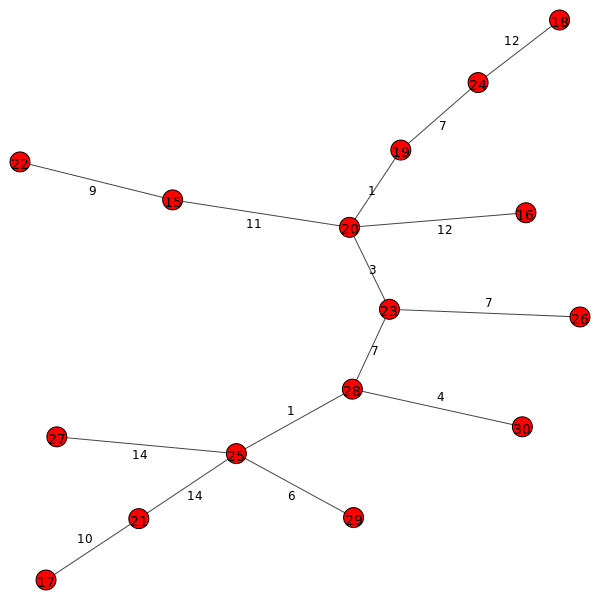
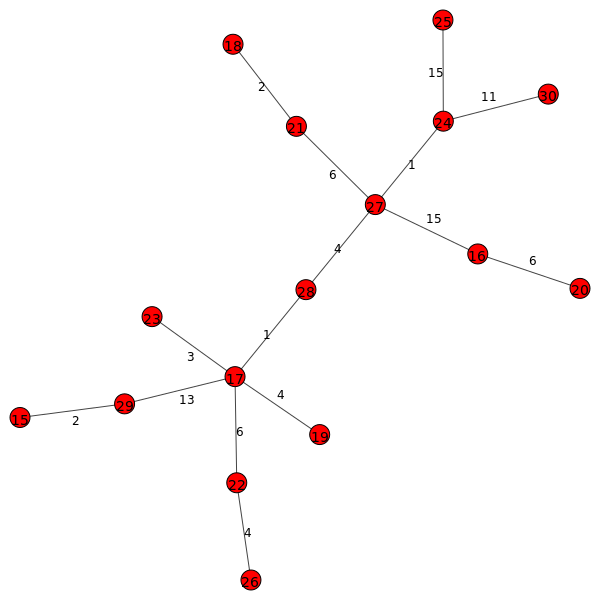
cosa

diff --git a/Parte2-Paper/Scripts/main.py b/Parte2-Paper/Scripts/main.py
@@ -1,3 +1,4 @@
+from tokenize import Double
 from matplotlib.pyplot import plot
 from igraph import *
 from functools import cache
@@ -25,24 +26,25 @@ def update_graph(G):
     new_graph_weights = G.es['weight'] #Saves the new weights of the graph
     return G, old_graph_weights, new_graph_weights
 
-#Input: G graph from igraph, n number of nodes
-#Output: None in python, 
-def loop_update(G, n):#Falta criterio de parada
+#Input: G graph from igraph, n time sleep till the next change, changes int number of random updates in the graph
+#Output: None in python. 
+def loop_update(G:Graph, n:Double, changes:int)->None:
     global iteraciones
     iteraciones +=1
-    a = random.sample(G.vs['name'], 1)
-    old_L, old_S = Dijkstra(G,a[0]) #Dijkstra inicial
+    a = random.sample(G.vs['name'], 1) #Picks a random node in the graph
+    old_L, old_S = Dijkstra(G,a[0]) #First dijkstra to know the state of the graph
     print_route_tables(G,old_L,a[0])
     count = 0
-    while count<3:
+    while count<changes:#Here the graph is updated and the routing tables are recalculeted
         iteraciones += 1
-        G, old, new = update_graph(G) #
-        #comparar
-        indices_diferencias = [i for i in range(len(old)) if old[i]!=new[i]] #Da el indice donde los pesos son diferentes
+        G, old, new = update_graph(G) #Changes the weights on some of the edges of the graph and saves the old and the new weights.
+        #From here we detect the changes on the graph and make the correspondent calculations
+        indices_diferencias = [i for i in range(len(old)) if old[i]!=new[i]] #Compare the old and the new weights to find the indices of the weights that changed and using this, we can find what edges changed
         #edges = [G.es[i] for i in indices_diferencias] #Para tener las aristas que se cambiaron
         #print(edges) #Esto debe imprimir objetos de igraph
+        #Now we use the indices to find the correspondent edges and with them we save both of the nodes connected to that edge to the a set to know whitch vertices route should be recalculated
         vertices_afectados = set({})
-        for i in indices_diferencias:#Para tener los vertices que se cambiaron
+        for i in indices_diferencias:#Finding the vertices that where affected
             iteraciones += 1
             vertices_afectados.add(G.es[i].source)
             vertices_afectados.add(G.es[i].target)
@@ -52,77 +54,50 @@ def loop_update(G, n):#Falta criterio de parada
         #u = input('Nombre del nodo 1: ')
         #v = input('Nombre del nodo 2: ')
         # a = [u, v]
-        old_L, old_S = Dijkstra(G, a[0],vertices_afectados,old_L,old_S) #Este terecer input da los vertices afectados
-        count +=1
+        old_L, old_S = Dijkstra(G, a[0],vertices_afectados,old_L,old_S) #Uses DIjkstra but keeping the past calculations that where not affected by the update. Only recalculating on the affected vertices.
+        count +=1 #Another recalculation was made
         print_route_tables(G,old_L,a[0],count)
-        time.sleep(n)
+        time.sleep(n)#Sleep time till next update/change in the graph
 
-#Input:
-#Output:
+#Input: g graph in igraph format, L a list of lists that represent the graph using the sparse matrix nodeA||nodeB||weight where A and B are adjacent nodes, u name of a node of the graph
+#and count a str to know in which table the data goes? check
+#Output: None in python, but it shows the routing tables in the console.
+
 def print_route_tables(g,L,u,count='inicial'): 
     global iteraciones
     grafo = g
     print(f"--- Tabla de enrutamiento {count}-----")
     print("|Origen| Destino | Remitir paquete a | Peso| ")
-    all_paths = list_graph_path(grafo,u,L)
-    for path in all_paths:
+    all_paths = list_graph_path(grafo,u,L) #paths from u to all nodes in a dictionary.
+    for path in all_paths: #For each node in the graph different from u.
         iteraciones += 1
-        print(f"|{u}    |{path}       |         {all_paths[path][0][1]}        |  {all_paths[path][1]} |")
-    al = list(all_paths.values())
-    paths = [i[0] for i in al]
+        print(f"|{u}    |{path}       |         {all_paths[path][0][1]}        |  {all_paths[path][1]} |") #The last two elements of this print are: the first node in the path from  u to z and second is the total weight of that path.
+    al = list(all_paths.values()) #Lists of lists with each list containing the path from u to z in a list and the total weight of the path.
+    paths = [i[0] for i in al] #A list of lists with each list having a path from u to any node in the graph
+    ##Creates png of the route in a reduced graph
     AU = []
     for i in paths:
-        for j in range(len(i)-1):
+        for j in range(len(i)-1): #Taking the nodes of each route
             iteraciones += 1
-            AU.append(grafo.get_eid(str(i[j]), str(i[j+1])))
-    AU = list(set(AU))
-    AU = [grafo.es[i] for i in AU]
+            AU.append(grafo.get_eid(str(i[j]), str(i[j+1]))) #Toma cada ruta y va agregando a AU los ids de las aristas que se usan en cada ruta.
+    AU = list(set(AU)) #Eliminan ids repetidos.
+    AU = [grafo.es[i] for i in AU] #Using the id we get the object edge from igraph
     NU = [i for i in grafo.es if i not in AU]
     grafo.delete_edges(NU)
+    ##Creates png of the route in a reduced graph
     layout = grafo.layout("kk")
     g.vs["label"] = g.vs["name"]
     g.es["label"] = g.es["weight"]
     plot(grafo, layout=layout,target= f"Este es el camino más corto en la actualización {count}.png")
 
-def show_weihtges(G):
-    for i in G.es:
-        source = G.vs(i.source)['name']
-        target = G.vs(i.target)['name']
-        weight = i['weight']
-        print(f'{source} --> {target}: {weight}')
-
-'''
-def full_dijkstra(G, u):
-    l = G.vs['name']
-    l.remove(u)
-    for i in l:
-        Dijkstra(G, u, i)
-'''
 
 def main():
-
-    # t = [('a', 'b', 0), ('a', 'c', 0), ('a', 'd', 0),
-    #     ('b', 'c', 0), ('b', 'd', 0)]
-    #t = [[32, 29, 2], [29, 22, 15], [32, 43, 3], [43, 45, 7], [29, 33, 7], [45, 24, 5], [33, 17, 10], [43, 38, 11], [24, 21, 9], [17, 34, 8], [22, 47, 13], [29, 15, 13], [33, 25, 10], [17, 30, 4], [24, 16, 2], [22, 28, 5], [22, 31, 15], [43, 36, 8], [34, 37, 2], [34, 23, 9], [21, 20, 13], [29, 27, 14], [33, 46, 12], [15, 18, 1], [
-        #29, 35, 3], [25, 19, 9], [43, 44, 1], [47, 42, 1], [25, 41, 14], [20, 40, 15], [38, 26, 9], [46, 39, 8], [45, 18, 5], [16, 18, 1], [40, 45, 8], [41, 24, 15], [27, 46, 2], [27, 25, 7], [21, 26, 9], [40, 26, 8], [19, 46, 13], [21, 42, 3], [35, 44, 1], [30, 15, 8], [29, 34, 8], [23, 18, 15], [37, 33, 8], [31, 28, 2]]
-     #Usa dijkstra y cada cierto tiempo modifica el grafo
-    # gl = threading.Thread(target=loop_update_update, args=(g, 2))
-    # dl = threading.Thread(target=loop_update_Dijkstra, args=(g))
-
-    # gl.start()
-    # dl.start()
-    # show_weihtges(g)
-    # update_graph(g)
-    # print('--------')
-    # show_weihtges(g)
     print("Bienvenido a este algoritmo. A partir de una red y mediante el uso de grafos, se hallarán las tablas de enrutamiento dinámicamente. \n Atención: Se guardarán imágenes de los grafos y caminos calculados en la misma carpeta.")
     if int(input('0 - Cargar Grafo \n1 - Generar Grafo \n Seleccion: ')):
         n = int(input("Por favor ingrese el numero de nodos del grafo de 15 a 50: "))
-        #print(n)
+        changes = int(input("Ingrese el número de cambios a realizar"))#Falta pasarselo al loop_update 
         t  = radngraph.gen_graph(n)
         t2 = [(str(i[0]), str(i[1]), i[2]) for i in t]
-        #t = Conex_graph_generator(n)
-        #print(t)
         radngraph.graph2csv(t)
     else:
         a = input('Por favor ingrese el nombre del archivo de donde se generara el grafo(sin ".csv"): ')

diff --git a/Parte2-Paper/Scripts/DJ.py b/Parte2-Paper/Scripts/DJ.py
@@ -2,8 +2,8 @@ from igraph import *
 
 iteraciones = 0
 
-#This function request an L graph in dictionary format in which the keys are the node name, and the values are a list with the
-#weight and destiny node of the edge. This function finds a path between u and z.
+#Input: Graph L in dictionary format, initial node u, destiny node z.
+#Ouput: r a list of the nodes form the origin to the destiny node.
 
 def get_path(L, u, z, r=[]):
     global iteraciones
@@ -17,8 +17,9 @@ def get_path(L, u, z, r=[]):
 
 
 
-#This function asks for a graph G in iGraph normal format and 2 nodes with and edge between them (adjacent). 
-#This finds the weight of the edge between the nodes.
+
+#Input: Graph G in iGraph format, node x and node v of the graph.
+#Output: The weight of the edge between these nodes.
 
 def w(G, x, v):
     try:
@@ -29,10 +30,11 @@ def w(G, x, v):
 
 
 #Input:G graph from igraph, u a node in L and L is a list of lists each one with the node and its connected edges.
-#Output: Path from U to each node in the graph using the function get_path.
+#Output: Path from U to each node in the graph using the function get_path in a dictionary where keys are the name of the nodes 
+#and the values are a list of 2 elements: 1.List of the path from u to z. 2 .Total weight of going from u to z using the given path.
 
 def list_graph_path(G, u, L):
-    all_paths={}
+    all_paths={} #Dictionary with keys as the name of the node and values the path from u top that node.
     l = list(G.vs['name']) #List in which we have all the nodes of the graph.
     l.remove(str(u)) #Delete the initial node from the nodes to check.
     for i in l:
@@ -41,11 +43,11 @@ def list_graph_path(G, u, L):
         path = get_path(L, str(u), str(i), []) #Find paths from u to all the nodes with get_path.
         path = path[::-1] #It inverse the path, this because geth_path returns the route list backwards.
         path.append(i) #Appends the destiny node to the list because get_path makes the list without him.
-        if L[i][0] == float('inf'):
+        if L[i][0] == 0: #Float(inf). If the weight of the path is 0 is because there isn't any.
             path = []
             
-        all_paths[i] = [path,L[i][0]]
-    return all_paths
+        all_paths[i] = [path,L[i][0]] #Assign a path and a weight to their respective nodes.
+    return all_paths 
 
 #Input: G graph from iGraph, u an origin node and some boolean parameters that idk.
 #Output: l a list of lists that represent the graph using the sparse matrix nodeA||nodeB||weight where A and B are adjacent nodes.
@@ -57,10 +59,11 @@ def Dijkstra(G, u, affected_nodes = True, old_S = True, old_L = True):
         L[str(u)] = [0, []] #Changes value of distance from u to u to 0.
         S = [str(u)] #Now we append u to the list of checked nodes.
     else:
-        for node in old_S:
-            if node in affected_nodes:
-                    S = old_S[0:int(old_S.index(node)+1)]  #IDFK No fucking idea whats happening here but this is for the dynamic case.
-                    L = {i: L[i] for i in S}
+        #When we have to recalculate due to changes we use this case in which affected nodes is a set({}) of the affected nodes
+        for node in old_S: #For each node in the past revision in the past dijkstra
+            if node in affected_nodes:#for each affected node we make the recalculation
+                    S = old_S[0:int(old_S.index(node)+1)]  #Creates the S list of checked nodes, usign slices and "cutting off" the affected nodes to be checked again
+                    L = {i: old_L[i] for i in S} #Saves the past weights that where not affected by the update in the graph, reducing calculations
     start = 1
     while 1:
         L_S = {i: L[i][0] for i in L if i not in S} #Append to L_S all the nodes in L that have not been checked.
@@ -70,20 +73,13 @@ def Dijkstra(G, u, affected_nodes = True, old_S = True, old_L = True):
             x = u #x will be the node whose edges will be checked.
             start = 0 #Changing start to 0 because we will no longer be in the first node.
         else:
-            x = min(L_S, key=L_S.get) #Minimum of the weights
-            S.append(x)
+            x = min(L_S, key=L_S.get) #Selects the minimum of the weights and select that node to move to him.
+            S.append(x) #Indicates that this node is checked now.
 
         for v in G.vs["name"]: #For all the nodes in G.
             iteraciones +=1
             if v not in S: #If v hasn't been checked.
-                if L[str(v)][0] > L[str(x)][0] + w(G, str(x), str(v)):# and L[str(v)][0]!= float('inf') and L[str(x)][0] != float('inf'): #Mirar el caso de nodos no conectados al origen.
-                    L[str(v)][1].append(str(x))
-                    #L[str(v)] = [L[str(x)][0] + w(G, str(x), str(v)), L[str(v)][1]]#Updates weight of the edge and adds the route
-                    L[str(v)][0] = L[str(x)][0] + w(G, str(x), str(v))
+                if L[str(v)][0] > L[str(x)][0] + w(G, str(x), str(v)): #If the weight that are in L is greater than the route for a node we replace that.
+                    L[str(v)][1].append(str(x)) #If they are connected, we append in the predecessor list of v x.
+                    L[str(v)][0] = L[str(x)][0] + w(G, str(x), str(v)) #Updates weight of the edge and adds the route
     return L,S
-
-def actualizar_Dijkstra():
-    pass
-
-def compareGraph():
-    pass
